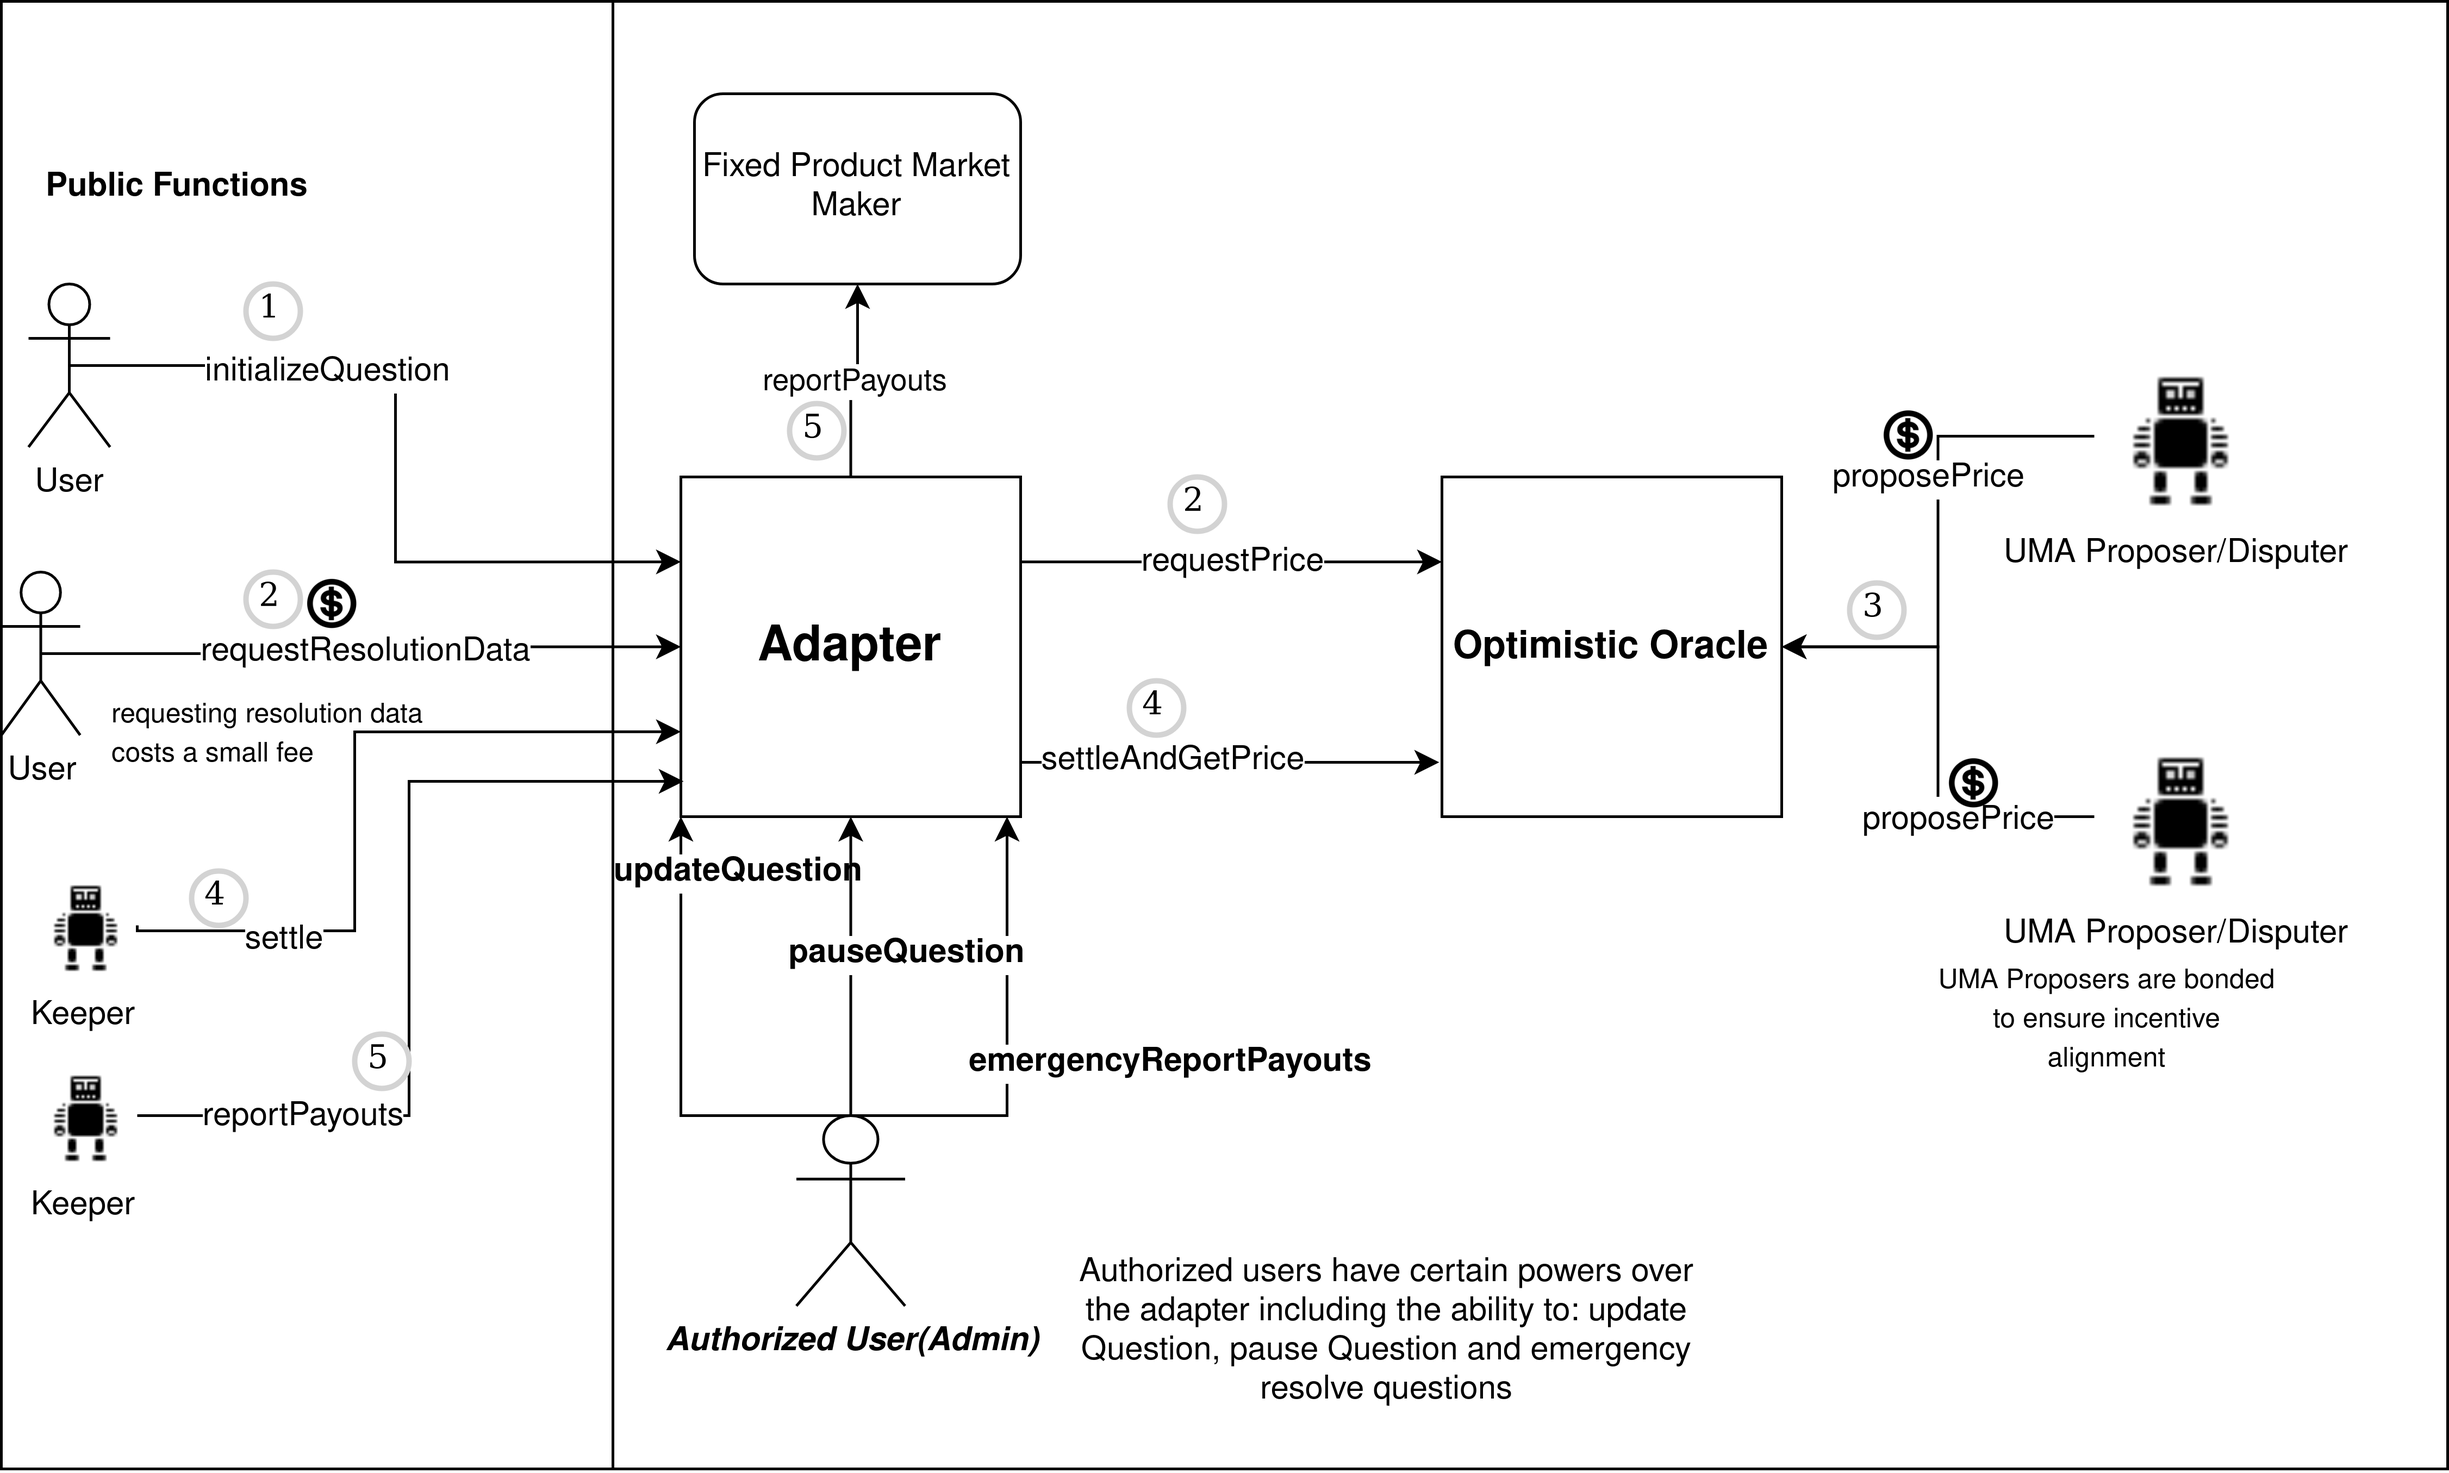
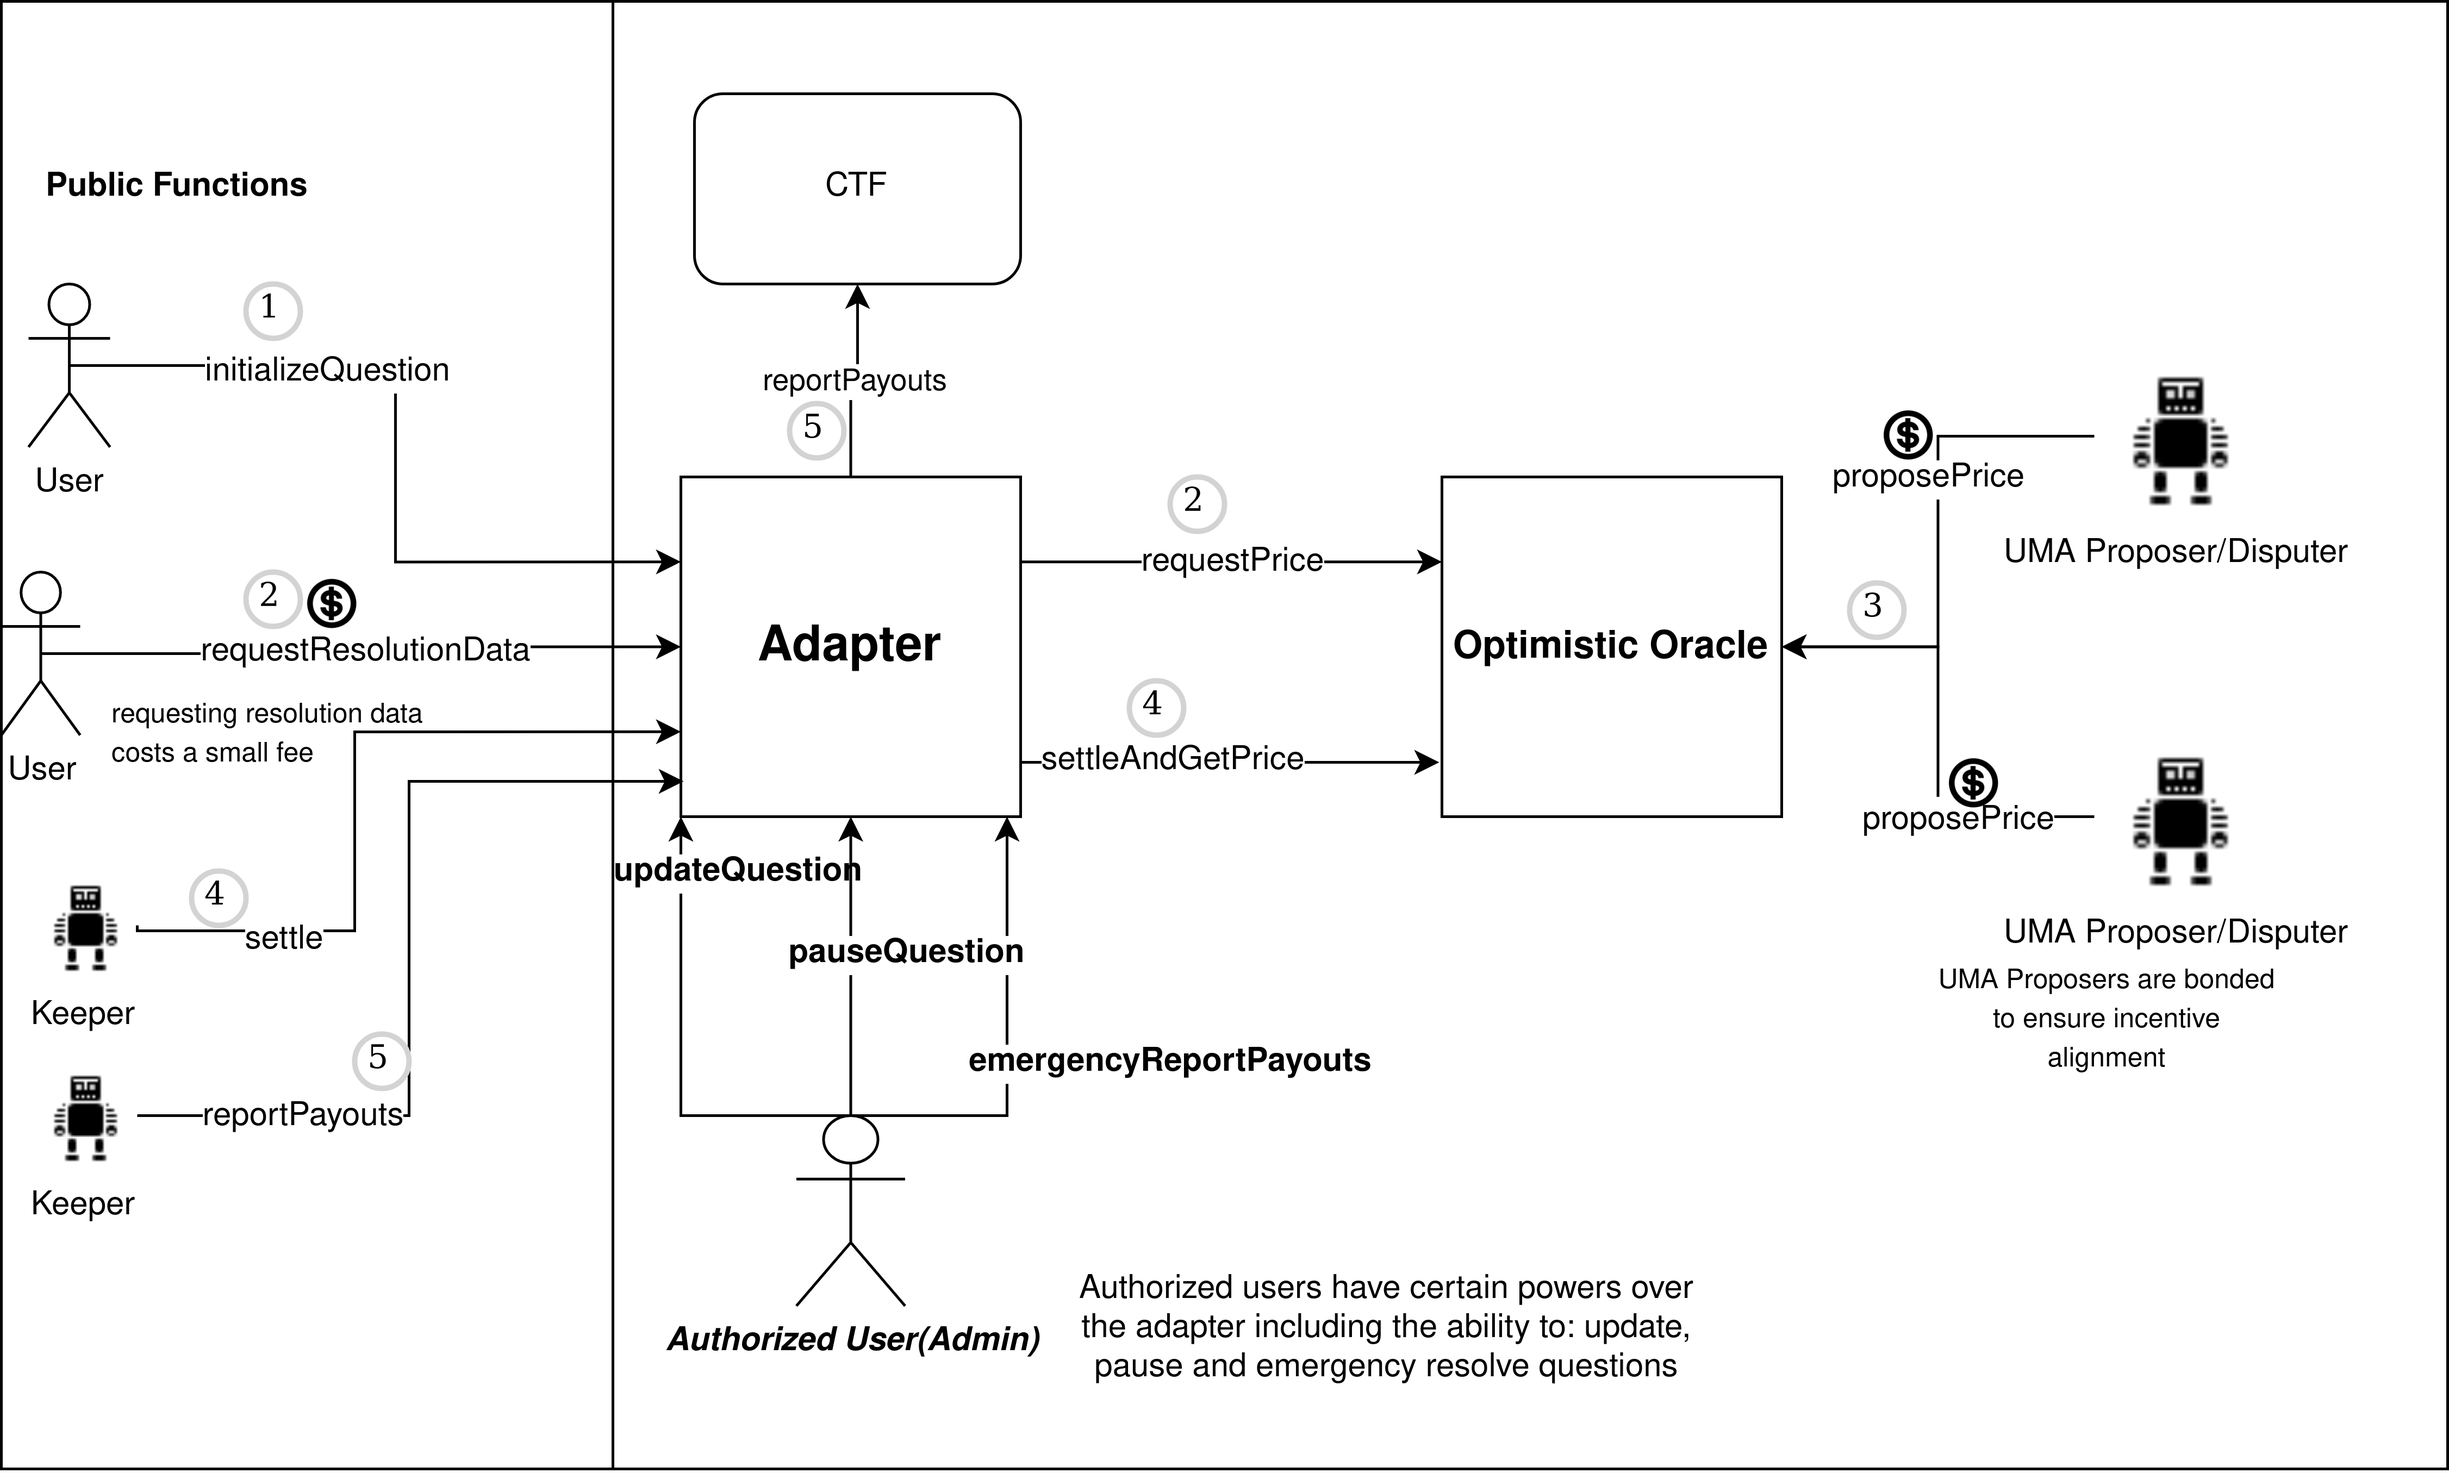
fix: address PR comments

Changed region(s): [[0.4351, 0.8369, 0.6837, 0.9609], [0.2797, 0.093, 0.404, 0.155]]

diff --git a/docs/Architecture.md b/docs/Architecture.md
@@ -4,11 +4,13 @@
 ![Contract Architecture](./adapter.png)
 
 
-The Adapter is an [oracle](https://github.com/gnosis/conditional-tokens-contracts/blob/master/contracts/ConditionalTokens.sol#L65) to [Conditional Token FPMMs](https://docs.gnosis.io/conditionaltokens/), which Polymarket prediction markets are based on. It fetches resolution data from UMA's Optmistic Oracle and resolves the FPMM based on said resolution data. 
+The Adapter is an [oracle](https://github.com/gnosis/conditional-tokens-contracts/blob/master/contracts/ConditionalTokens.sol#L65) to [Conditional Token Framework](https://docs.gnosis.io/conditionaltokens/) conditions, which Polymarket prediction markets are based on. 
+
+It fetches resolution data from UMA's Optmistic Oracle and resolves the condition based on said resolution data.
 
 When a new market is deployed, it is `initialized` on the Adapter, meaning question data such as resolution time, description, etc are stored onchain on the adapter.
 
-After initialization, anyone can call `requestResolutionData` which queries the Optimistic Oracle for resolution data using the previously stored question data. Note: callers will need to approve `rewardToken` with the Adapter as spender as question initializers can specify a `rewardToken` and `reward` amount to incentivize UMA proposers to respond accurately
+After initialization, anyone can call `requestResolutionData` which queries the Optimistic Oracle for resolution data using the previously stored question data. Note: callers will need to approve `rewardToken` with the Adapter as spender as question initializers can specify a `rewardToken` and `reward` amount to incentivize UMA proposers to respond accurately.
 
 UMA Proposers will then respond to the request and fetch resolution data offchain. If the resolution data is not disputed, the data will be available to the Adapter after a defined liveness period(currently about 2 hours). If the proposal is disputed, UMA's [DVM](https://docs.umaproject.org/getting-started/oracle#umas-data-verification-mechanism) is the fallback and will return data after a 48 - 72 hour period.
 
